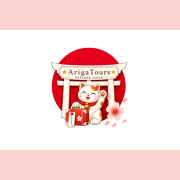
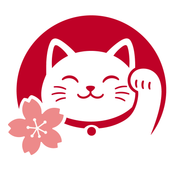
Reemplaza el isotipo por la imagen de marca
Mismo cambio que en el repo del VPS, para que los dos no diverjan.

Entra el maneki-neko sobre el circulo rojo en la barra de navegacion, en la
pantalla de ingreso al panel, en el icono de pestana y en el de iOS.

Al PNG original se le recorto el margen antes de convertirlo: dos tercios
eran transparencia y el gato se veria diminuto en la barra. El icono de iOS
es el unico con fondo blanco, porque alli la transparencia no se respeta.

diff --git a/frontend/src/configuracion/sitio.js b/frontend/src/configuracion/sitio.js
@@ -8,12 +8,20 @@
 export const SITIO = {
   nombre: 'ArigaTours',
   lema: 'Descubre el auténtico Japón',
-  // Ojo con el nombre: el archivo es "ArigatoursLOGOv1" (sin guion bajo y con
-  // la t minuscula). Es la version con fondo transparente, la que encaja sobre
-  // el rosa de la barra. La alternativa con fondo solido es
-  // "ArigaTours_LOGOCONFONDO.webp".
-  logo: '/recursos/ArigaTours_LOGOCONFONDO.webp',
-  logo2: '/recursos/ArigatoursLOGOv1.webp',
+  /*
+   * El maneki-neko sobre el circulo rojo. Es un WebP de 512 px generado a
+   * partir de NewLogo.png, que se queda en la carpeta como original.
+   *
+   * Al PNG se le recorto el margen antes de convertirlo: dos tercios de la
+   * imagen eran transparencia, y eso hacia que el gato se viera diminuto
+   * dentro de su hueco en la barra de navegacion.
+   *
+   * Lleva fondo transparente, asi que sirve igual sobre el rosa de la barra
+   * que sobre el blanco de la pantalla de ingreso. Por eso ahora los dos
+   * campos apuntan al mismo archivo.
+   */
+  logo: '/recursos/logo-neko.webp',
+  logo2: '/recursos/logo-neko.webp',
 
   correo: 'contacto@arigatours.com',
 

diff --git a/frontend/index.html b/frontend/index.html
@@ -8,8 +8,11 @@
       name="description"
       content="Agencia de tours privados y free walking tours por Japón: Tokio, Kioto, Osaka, Nara, Kobe, Himeji y Kamakura. Guías en español, inglés y japonés."
     />
-    <!-- El icono de pestana va en PNG a proposito: WebP no lo admiten todos
-         los navegadores como favicon, y el archivo pesa solo 2 KB. -->
+    <!-- Los dos iconos salen del mismo logo, pero no son el mismo archivo.
+         El de pestana va en PNG porque no todos los navegadores admiten WebP
+         como favicon, y conserva la transparencia. El de iOS lleva fondo
+         blanco a proposito: alli la transparencia no se respeta y el gato
+         acabaria recortado sobre negro. -->
     <link rel="icon" href="/recursos/favicon.png" type="image/png" />
     <link rel="apple-touch-icon" href="/recursos/icono-apple.png" />
     <link rel="preconnect" href="https://cdnjs.cloudflare.com" />
